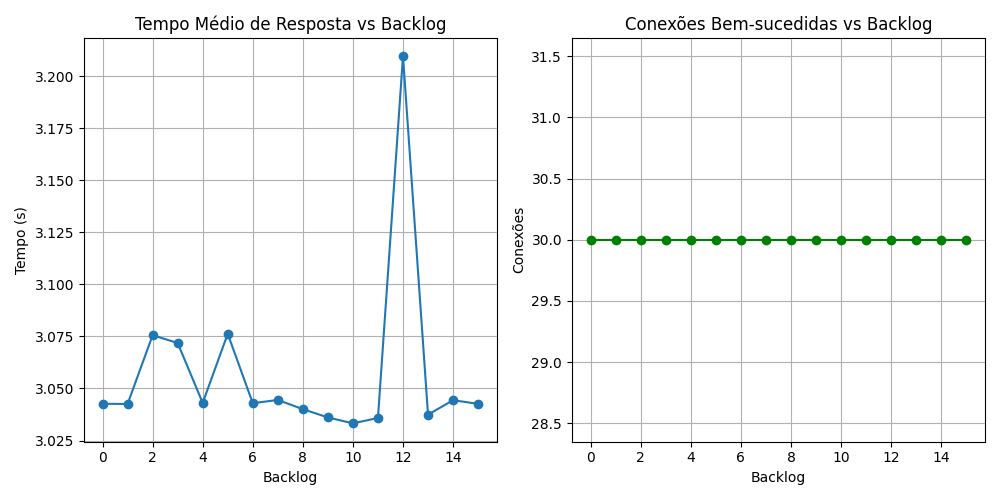
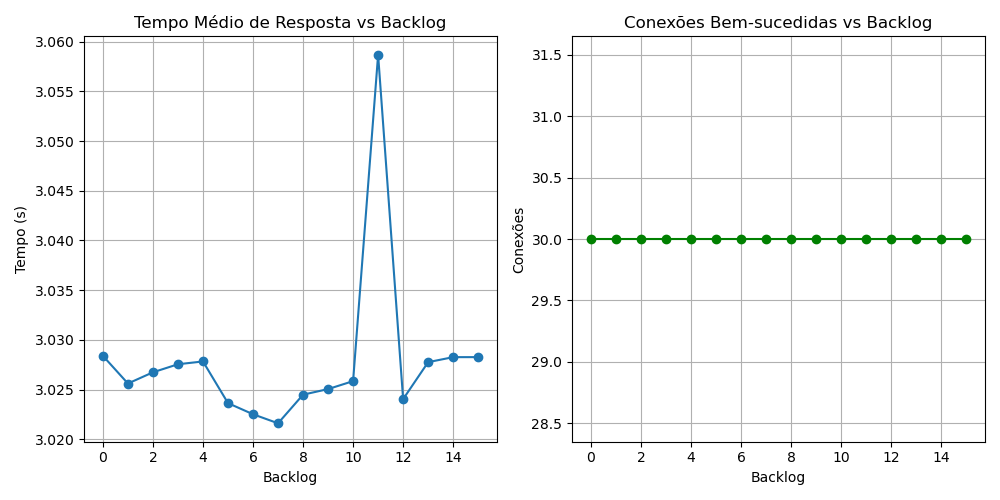
final exec

diff --git a/backlog_zombies/desempenho.py b/backlog_zombies/desempenho.py
@@ -7,13 +7,13 @@ import matplotlib.pyplot as plt
 
 def run_server(port, backlog):
     cmd = f"./server {port} {backlog}" 
-    proc = subprocess.run(cmd, shell=True)
+    proc = subprocess.Popen(cmd, shell=True)
     return proc
 
 def run_client(client_id, results, port):
     start = time.time()
     try:
-        subprocess.run(f"./client 127.0.0.1 {port}", shell=True, timeout=10)
+        subprocess.run(f"./client 127.0.0.1 {port}", shell=True, timeout=5)
         end = time.time()
         results.append({ "client_id": client_id, "time": end - start, "sucesso": True })  # Sucesso na conexão
     except subprocess.TimeoutExpired:
@@ -58,6 +58,8 @@ def evaluate_performance(port):
         avg_response_times.append(avg_time)
         successful_connections.append(successful_conn)
         print(f"Backlog {backlog}: Tempo médio = {avg_time:.3f}s, Qtde. conn. estabelecidas = {successful_conn}/{len(results)}")
+
+        port += 1
 
     plt.figure(figsize=(10, 5))
     
